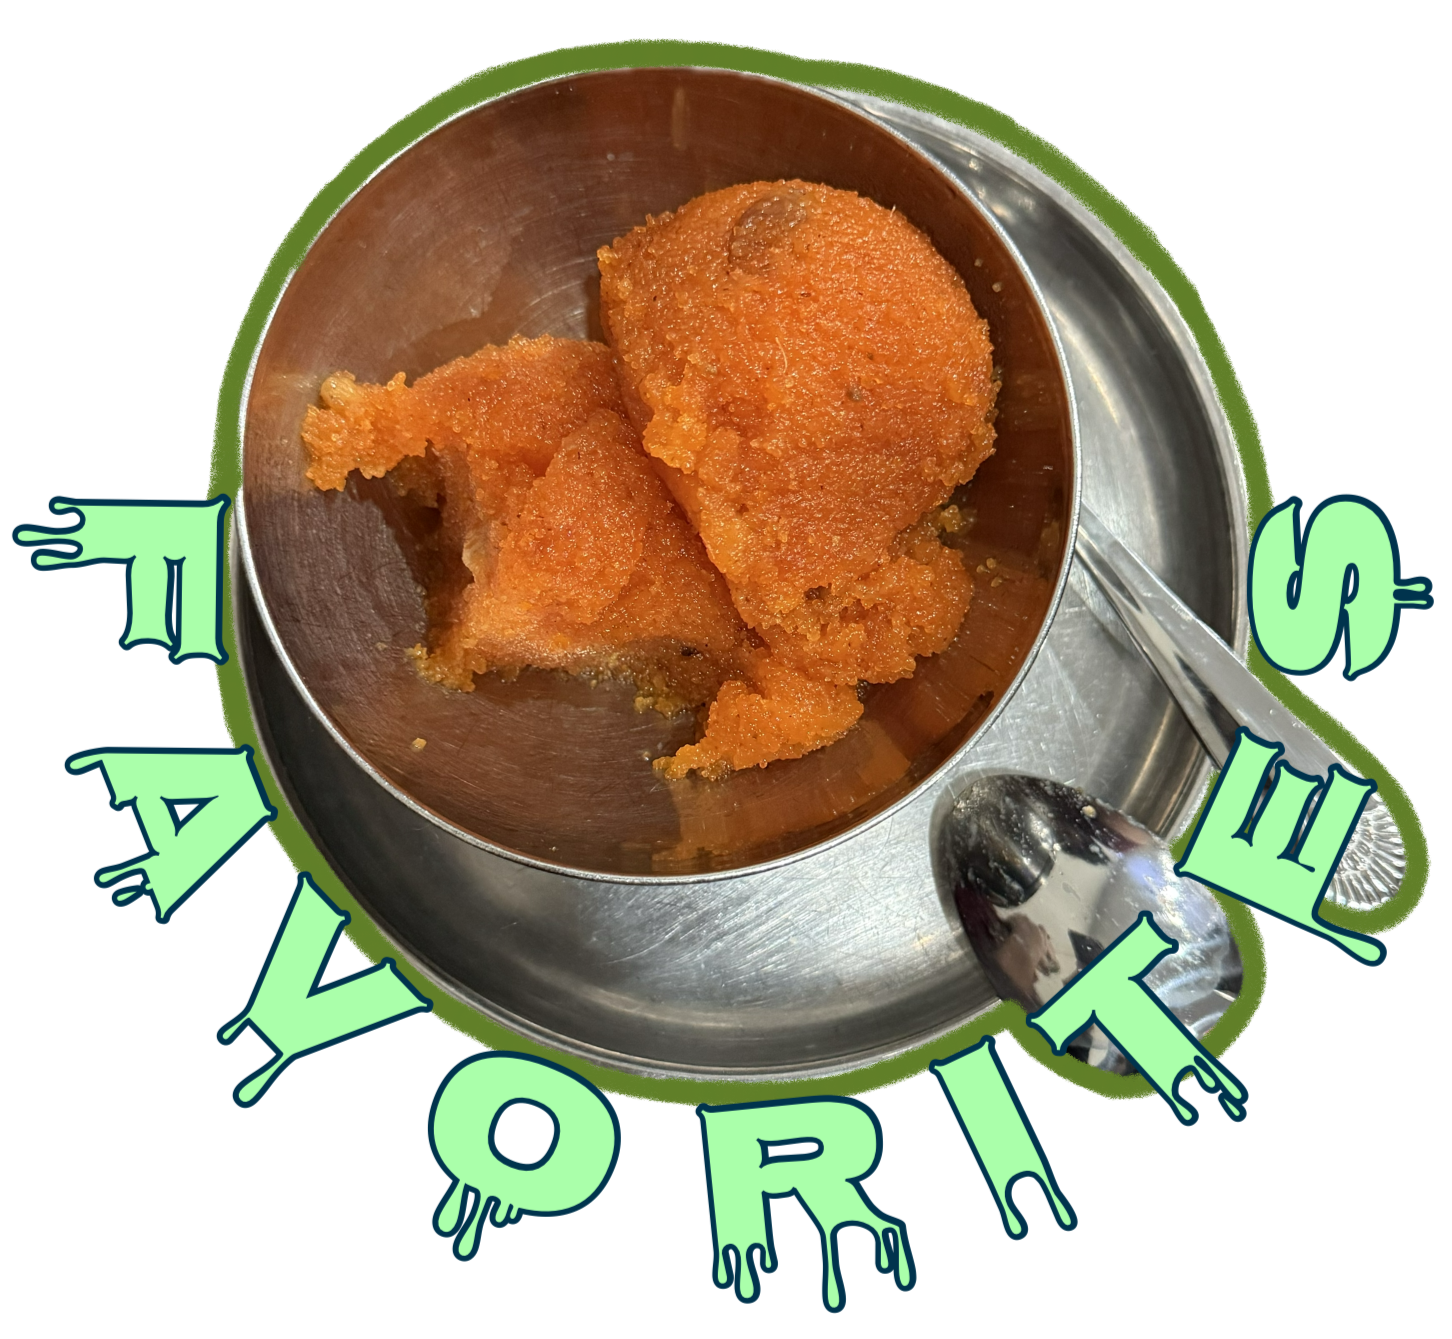
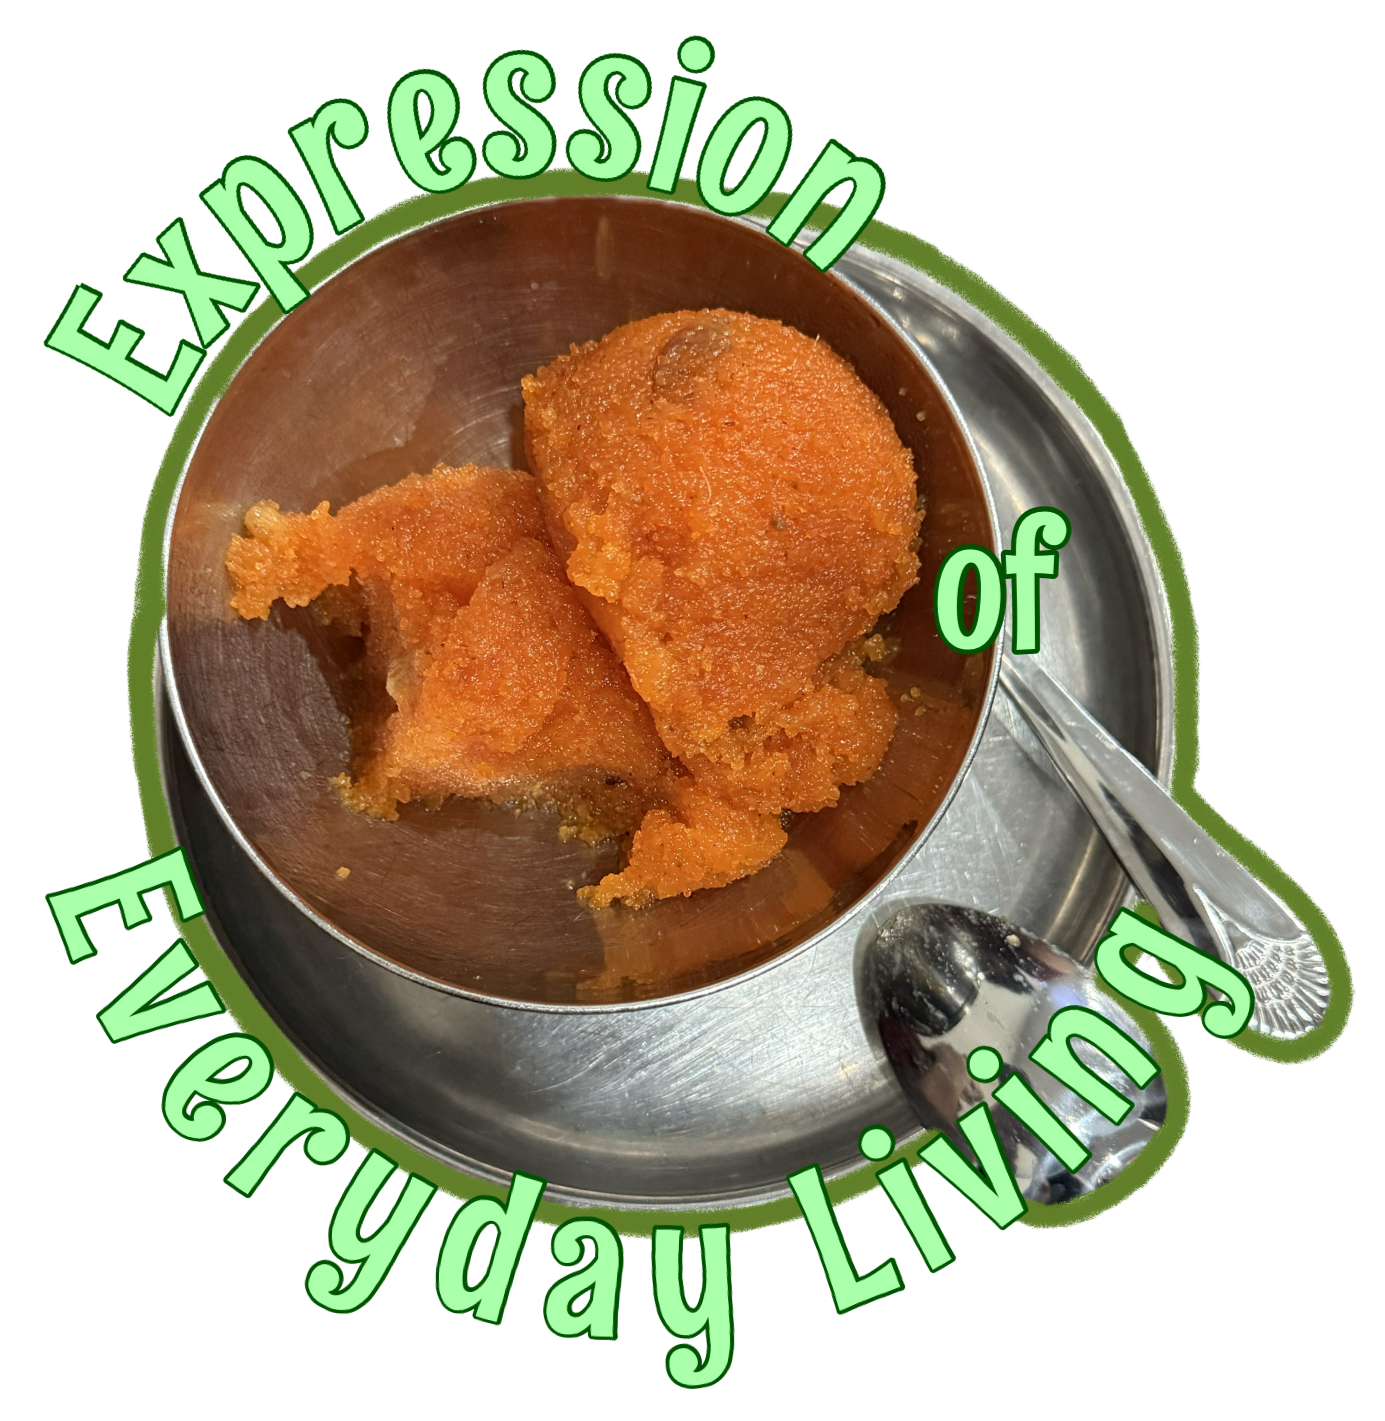
Redesign Favorites page with collage background and Fleur Cowles header.

diff --git a/mywebsite.css b/mywebsite.css
@@ -1,3 +1,7 @@
+html {
+  height: 100%;
+}
+
 body {
   height: 100%;
   margin: 0; 
@@ -174,11 +178,27 @@ body.intro-page.intro-collage-page {
   display: block;
   text-align: left;
   margin: 0;
+  background: none;
+}
+
+body.intro-page.intro-collage-page:has(.intro-collage) {
+  min-height: 100vh;
+  min-height: 100dvh;
+  min-height: 100svh;
+  overflow: hidden;
+  position: relative;
+}
+
+body.intro-page.intro-collage-page::before {
+  content: "";
+  position: fixed;
+  inset: 0;
+  z-index: 0;
   background-image: url(BackgroundImage.jpg);
   background-repeat: no-repeat;
   background-size: cover;
   background-position: center;
-  background-attachment: fixed;
+  pointer-events: none;
 }
 
 /* NYC, San Diego, İstanbul, Türkiye gallery subpages: same backdrop as index.html */
@@ -194,9 +214,11 @@ body.photos-gallery-subpage {
   position: relative;
   min-height: 100vh;
   min-height: 100dvh;
+  min-height: 100svh;
   width: 100%;
   max-width: 100vw;
   z-index: 1;
+  overflow: hidden;
 }
 
 .intro-hotspot {
@@ -276,7 +298,7 @@ body.photos-gallery-subpage {
 
 .intro-hotspot--blog {
   left: 38%;
-  top: 74%;
+  top: 70%;
   width: min(22vw, 280px);
 }
 
@@ -588,7 +610,6 @@ body.photos-gallery-subpage .images-outside-banner img {
 
 /* ===== MOBILE RESPONSIVE ===== */
 @media (max-width: 768px) {
-  body.intro-page.intro-collage-page,
   body.photos-gallery-subpage {
     /* Fixed backgrounds often fight mobile URL bars / in-app browsers */
     background-attachment: scroll;
@@ -784,7 +805,7 @@ body.photos-gallery-subpage .images-outside-banner img {
   .intro-hotspot--blog {
     width: min(28vw, 34vmin, 27dvh, 168px);
     left: 38%;
-    top: 72%;
+    top: 68%;
   }
 
   /* Links - disable hover zoom on touch */
@@ -885,7 +906,7 @@ body.photos-gallery-subpage .images-outside-banner img {
   .intro-hotspot--blog {
     width: min(24vw, 30vmin, 24dvh, 142px);
     left: 38%;
-    top: 71%;
+    top: 67%;
   }
 }
 
@@ -1483,6 +1504,176 @@ body.intro-page.musics-page {
 
   .musics-playlist__embed {
     height: min(44vh, 380px);
+  }
+}
+
+/* Favorites page */
+body.intro-page.favorites-page {
+  display: flex;
+  flex-direction: column;
+  align-items: stretch;
+  justify-content: flex-start;
+  text-align: left;
+  height: 100dvh;
+  max-height: 100dvh;
+  min-height: 100dvh;
+  overflow: hidden;
+  padding-top: clamp(3.5rem, 8vh, 5rem);
+  padding-bottom: clamp(0.75rem, 2vh, 1.25rem);
+  box-sizing: border-box;
+}
+
+.favorites-fleur {
+  position: fixed;
+  top: max(0.75rem, env(safe-area-inset-top, 0px));
+  left: 50%;
+  transform: translateX(-50%);
+  z-index: 20;
+  width: clamp(160px, 38vw, 520px);
+  height: auto;
+  object-fit: contain;
+  pointer-events: none;
+  user-select: none;
+  filter: drop-shadow(0 6px 14px rgba(0, 0, 0, 0.55));
+}
+
+body.intro-page.favorites-page main,
+body.intro-page.favorites-page main.favorites-main {
+  min-height: 0;
+  flex: 1;
+  overflow: hidden;
+}
+
+.favorites-main {
+  position: relative;
+  z-index: 1;
+  flex: 1;
+  width: 100%;
+  max-width: 100vw;
+  margin: 0 auto;
+  padding-inline: clamp(0.5rem, 2vw, 1rem);
+  display: flex;
+  flex-direction: column;
+  gap: clamp(0.5rem, 1.5vh, 0.85rem);
+  box-sizing: border-box;
+  min-height: 0;
+  overflow: hidden;
+}
+
+.favorites-header {
+  text-align: center;
+  display: flex;
+  flex-direction: column;
+  align-items: center;
+  gap: clamp(0.35rem, 1.2vh, 0.65rem);
+  flex-shrink: 0;
+}
+
+.favorites-header__tagline {
+  margin: 0;
+  font-size: clamp(13px, 1.9vw, 16px);
+  opacity: 0.88;
+  max-width: 36ch;
+  line-height: 1.45;
+}
+
+.favorites-main__stage {
+  flex: 1 1 auto;
+  min-height: 0;
+  width: 100%;
+  display: flex;
+  flex-direction: column;
+  align-items: stretch;
+  justify-content: center;
+  overflow: hidden;
+}
+
+.favorites-rail {
+  --fav-card-w: min(72vw, 300px);
+  flex: 1 1 auto;
+  min-height: 0;
+  width: 100%;
+  max-width: 100vw;
+  overflow-x: auto;
+  overflow-y: hidden;
+  scroll-snap-type: x mandatory;
+  scroll-padding-inline: clamp(1rem, 4vw, 2rem);
+  scroll-behavior: smooth;
+  -webkit-overflow-scrolling: touch;
+  overscroll-behavior-x: contain;
+  overscroll-behavior-y: none;
+  outline: none;
+  mask-image: linear-gradient(
+    to right,
+    transparent,
+    black 4%,
+    black 96%,
+    transparent
+  );
+}
+
+.favorites-rail:focus-visible {
+  box-shadow: 0 0 0 3px rgba(255, 200, 80, 0.85);
+  border-radius: 10px;
+}
+
+.favorites-rail__track {
+  display: flex;
+  flex-direction: row;
+  flex-wrap: nowrap;
+  align-items: stretch;
+  gap: clamp(0.85rem, 2.5vw, 1.25rem);
+  padding-block: clamp(0.35rem, 1vh, 0.65rem);
+  padding-inline: clamp(1rem, 4vw, 2rem);
+  width: max-content;
+  height: 100%;
+  min-height: min(48vh, 400px);
+  max-height: 100%;
+  box-sizing: border-box;
+}
+
+.fav-card {
+  scroll-snap-align: start;
+  flex: 0 0 auto;
+  width: var(--fav-card-w);
+  height: 100%;
+  max-height: 100%;
+  display: flex;
+  flex-direction: column;
+  background: rgba(0, 0, 0, 0.46);
+  border-radius: 20px;
+  overflow: hidden;
+  border: 1px solid rgba(120, 210, 145, 0.22);
+  transition: transform 0.2s ease, border-color 0.2s ease;
+}
+
+.fav-card:hover {
+  transform: translateY(-2px);
+  border-color: rgba(160, 240, 180, 0.45);
+}
+
+.fav-card__media {
+  flex: 1;
+  min-height: 0;
+  overflow: hidden;
+  line-height: 0;
+  background: rgba(0, 0, 0, 0.25);
+}
+
+.fav-card__media img {
+  width: 100%;
+  height: 100%;
+  object-fit: cover;
+  display: block;
+}
+
+@media (max-width: 520px) {
+  .favorites-rail {
+    --fav-card-w: min(84vw, 280px);
+  }
+
+  .favorites-rail__track {
+    min-height: min(42vh, 340px);
   }
 }
 

diff --git a/Favorites.html b/Favorites.html
@@ -2,17 +2,19 @@
 <html lang="en">
   <head>
     <meta charset="UTF-8">
-    <meta name="viewport" content="width=device-width, initial-scale=1.0">
+    <meta name="viewport" content="width=device-width, initial-scale=1.0, viewport-fit=cover">
     <title>Favorites — mevakaradayi</title>
     <link href="/mywebsite.css" rel="stylesheet" type="text/css" media="all">
   </head>
-  <body class="intro-page">
-    <div class="contents">
-      <a href="index.html">Home</a><br>
-    </div>
-
-    <div class="explanation">
-      <p>This page is for my favorites—places, tools, and other things I keep coming back to. I’ll be adding picks here soon.</p>
-    </div>
+  <body class="intro-page intro-collage-page favorites-page">
+    <a class="films-exit" href="index.html" aria-label="Exit to Home"><img src="Images/exit.png" alt="" width="96" height="96"></a>
+    <img
+      class="favorites-fleur"
+      src="expression%20of%20everday%20life/Fleur_Cowles.PNG?v=3"
+      alt="Fleur Cowles"
+      width="1359"
+      height="648"
+      decoding="async"
+    >
   </body>
 </html>

diff --git a/index.html b/index.html
@@ -9,7 +9,7 @@
   <body class="intro-page intro-collage-page">
     <div class="intro-collage" aria-label="Site sections">
       <a class="intro-hotspot intro-hotspot--favorites" href="Favorites.html">
-        <img src="favorites.PNG?v=1" alt="Favorites" width="1452" height="1339" decoding="async">
+        <img src="favorites.PNG?v=2" alt="Favorites" width="1385" height="1421" decoding="async">
       </a>
       <a class="intro-hotspot intro-hotspot--memorybox" href="MemoryBox.html">
         <img src="memorybox.png" alt="Memory Box" width="320" height="320" decoding="async">
